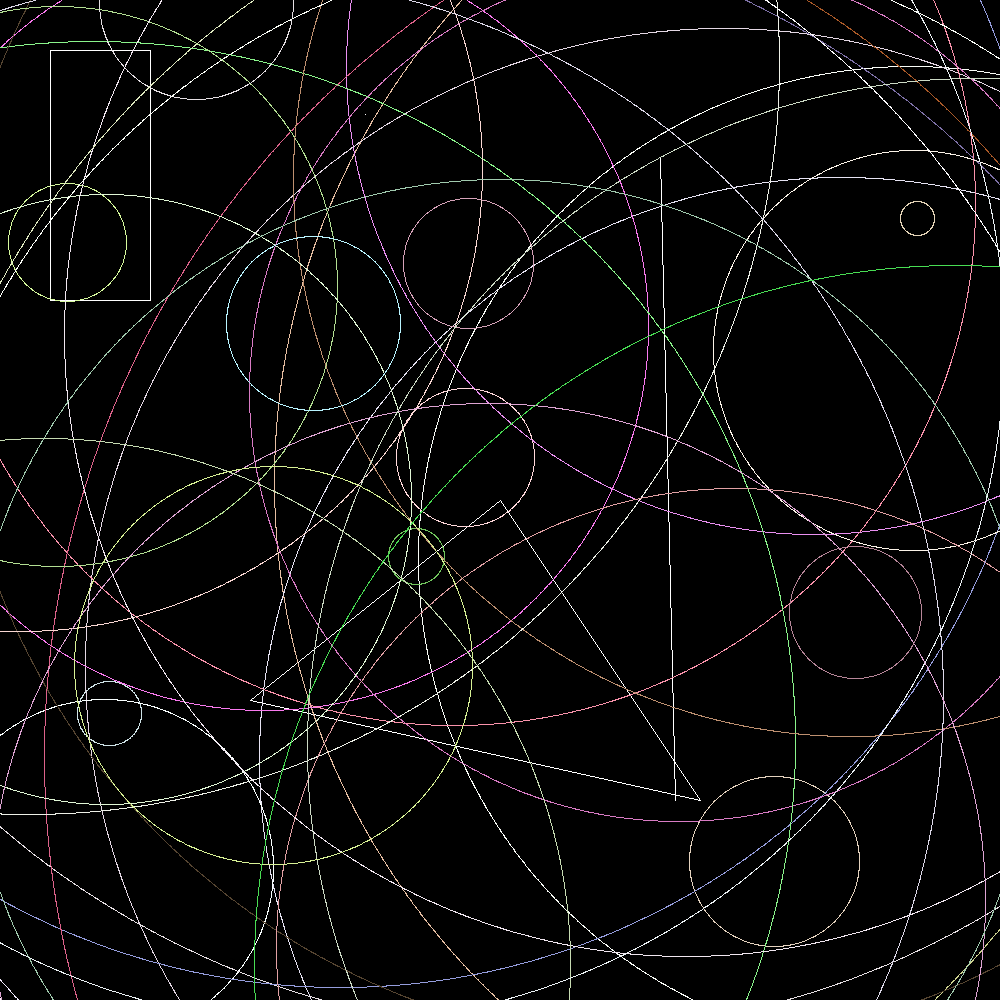
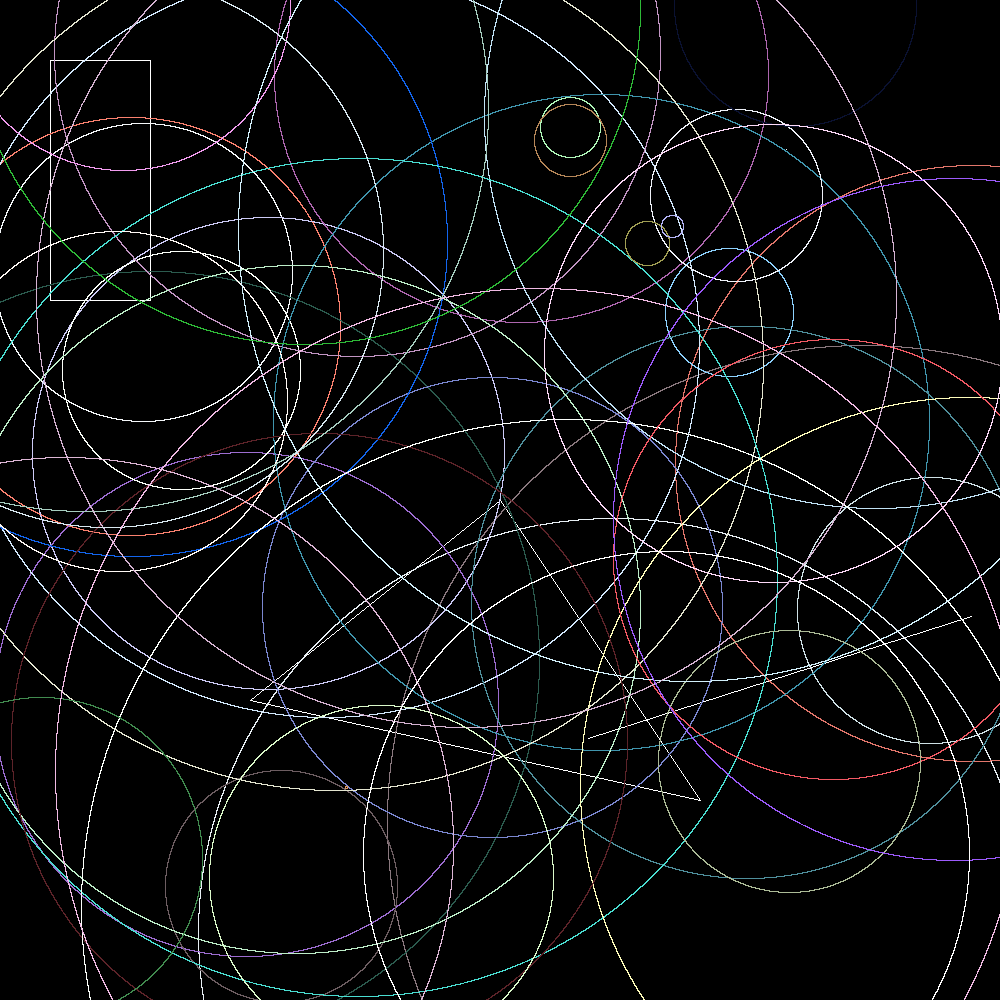
lv

diff --git a/src/geometrical_shapes.rs b/src/geometrical_shapes.rs
@@ -79,19 +79,19 @@ impl Drawable for Line {
 }
 
 // Rectangle
-pub struct Rectangle<'a> (&'a Point, &'a Point);
-impl<'a> Rectangle<'a> {
-    pub fn new(p1: &'a Point, p2: &'a Point) -> Self {
-        Self(p1, p2)
+pub struct Rectangle ( Point, Point);
+impl Rectangle {
+    pub fn new(p1: &Point, p2: &Point) -> Self {
+        Self(p1.clone(), p2.clone())
     }
 }
 
-impl<'a> Drawable for Rectangle<'a> {
+impl Drawable for Rectangle {
     fn draw(&self, image: &mut Image) {
         let top_left = Point::new(self.0.0, self.1.1);
         let top_right = Point::new(self.1.0, self.1.1);
-        let bottom_left = Point::new(self.0.0, self.0.1*2);
-        let bottom_right = Point::new(self.1.0, self.0.1*2);
+        let bottom_left = Point::new(self.0.0, self.0.1);
+        let bottom_right = Point::new(self.1.0, self.0.1);
     
         Line::new(top_left.clone(), top_right.clone()).draw(image);
         Line::new(top_right.clone(), bottom_right.clone()).draw(image);
@@ -101,14 +101,14 @@ impl<'a> Drawable for Rectangle<'a> {
 }
 
 // Triangle
-pub struct Triangle<'a> (&'a Point, &'a Point, &'a Point);
-impl<'a> Triangle<'a> {
-    pub fn new(p1: &'a Point, p2: &'a Point, p3: &'a Point) -> Self {
-        Self(p1, p2, p3)
+pub struct Triangle (Point, Point, Point);
+impl Triangle {
+    pub fn new(p1: &Point, p2: &Point, p3: &Point) -> Self {
+        Self(p1.clone(), p2.clone(), p3.clone())
     }
 }
 
-impl<'a> Drawable for Triangle<'a> {
+impl Drawable for Triangle {
     fn draw(&self, image: &mut Image) {
         Line::new(self.0.clone(), self.1.clone()).draw(image);
         Line::new(self.1.clone(), self.2.clone()).draw(image);
@@ -132,7 +132,7 @@ impl Circle {
     pub fn random(width: i32, height: i32) -> Self {
         let x = rand::thread_rng().gen_range(0..=width);
         let y = rand::thread_rng().gen_range(0..=height);
-        let radius = rand::thread_rng().gen_range(1..=(width+height)/2);
+        let radius = rand::thread_rng().gen_range(1..=((width+height)/2)/2);
 
         Circle::new(Point::new(x, y), radius)
     }
@@ -145,7 +145,7 @@ impl Drawable for Circle {
         let radius = self.radius;
         let color = self.color();
         
-        let num_points = (radius * 8).max(360);
+        let num_points = radius * 360;
 
         for i in 0..num_points {
             let angle = (i as f64) * 2.0 * std::f64::consts::PI / (num_points as f64);

diff --git a/src/main.rs b/src/main.rs
@@ -11,18 +11,13 @@ fn main() {
 
     gs::Point::random(image.width, image.height).draw(&mut image);
 
-    let rec_point1 = gs::Point::new(150, 150);
-    let rec_point2 = gs::Point::new(50, 50);
-    let rectangle = gs::Rectangle::new(&rec_point1, &rec_point2);
+    let rectangle = gs::Rectangle::new(&gs::Point::new(150, 300), &gs::Point::new(50, 60));
     rectangle.draw(&mut image);
 
-    let triangle_p1 = gs::Point::new(500, 500);
-    let triangle_p2 = gs::Point::new(250, 700);
-    let triangle_p3 = gs::Point::new(700, 800);
-    let triangle = gs::Triangle::new (
-            &triangle_p1,
-            &triangle_p2,
-            &triangle_p3,
+    let triangle = gs::Triangle::new(
+        &gs::Point::new(500, 500),
+        &gs::Point::new(250, 700),
+        &gs::Point::new(700, 800),
     );
     triangle.draw(&mut image);
 
